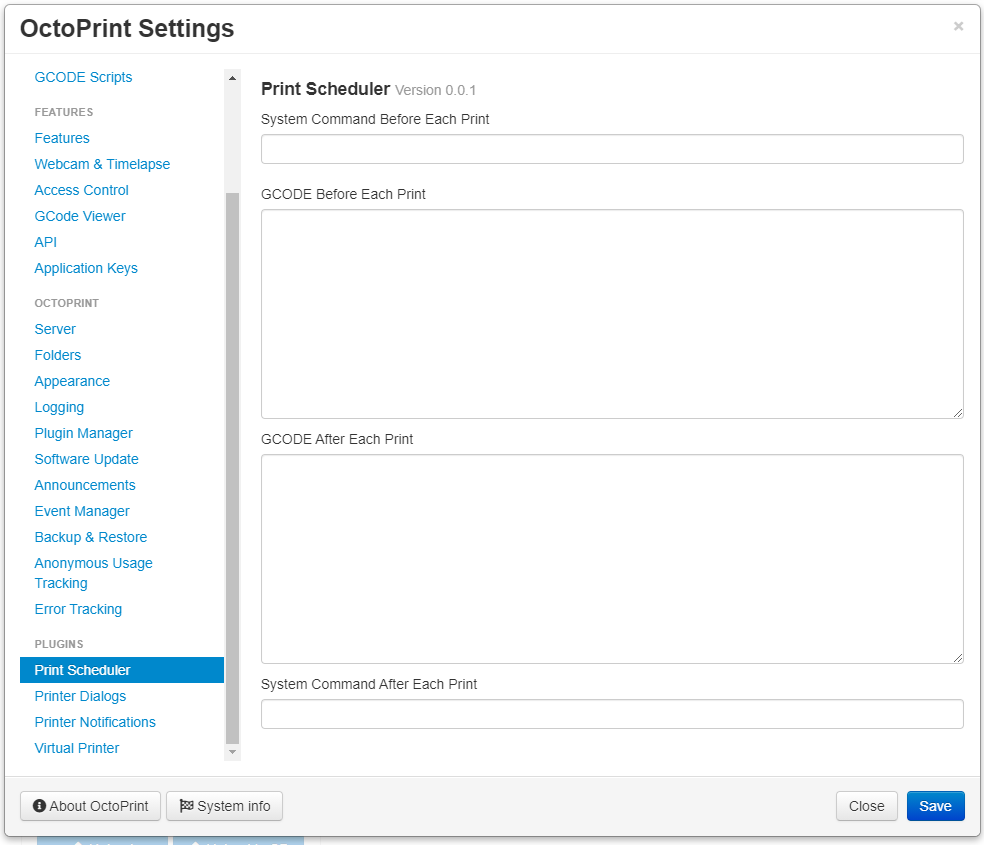
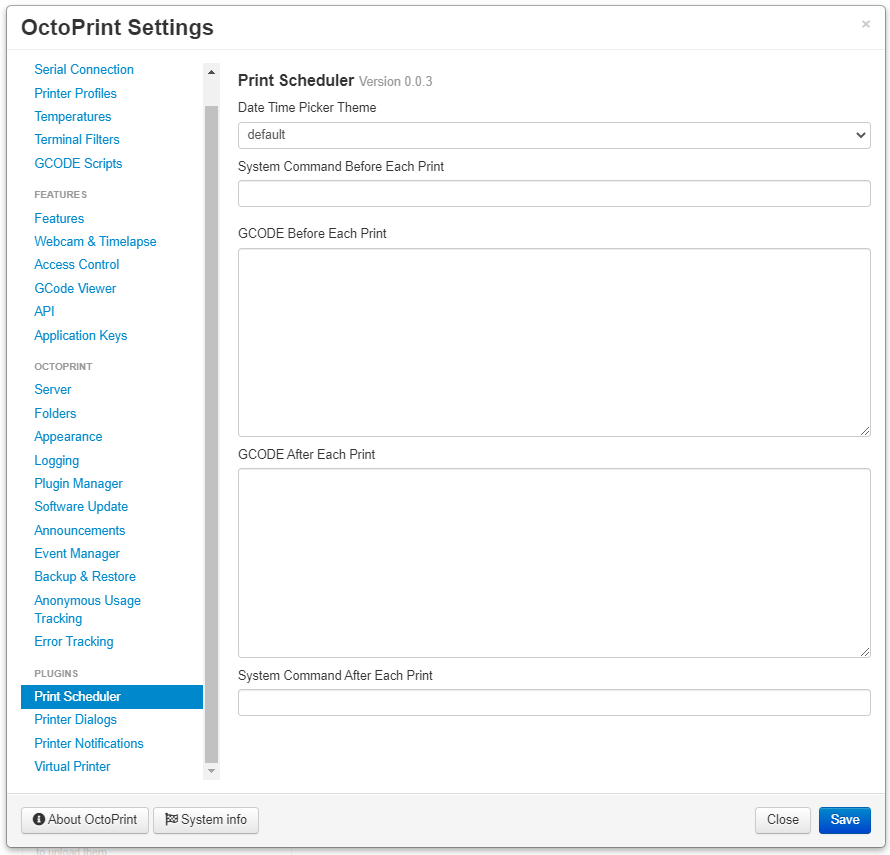
update settings screenshot

Changed region(s): [[0.0, 0.0, 1.0, 1.0], [0.2124, 0.8615, 0.2427, 0.8923]]

diff --git a/setup.py b/setup.py
@@ -14,7 +14,7 @@ plugin_package = "octoprint_printscheduler"
 plugin_name = "Print Scheduler"
 
 # The plugin's version. Can be overwritten within OctoPrint's internal data via __plugin_version__ in the plugin module
-plugin_version = "0.0.3rc2"
+plugin_version = "0.0.3"
 
 # The plugin's description. Can be overwritten within OctoPrint's internal data via __plugin_description__ in the plugin
 # module
